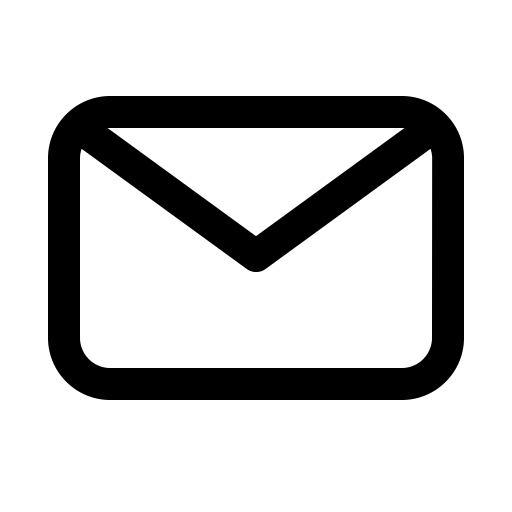
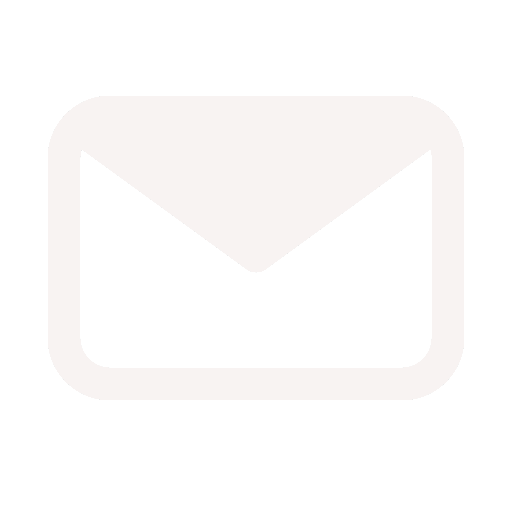
Updated styles
Changed header styles, updated icons to match with it, and column styles to also match with new header

Changed region(s): [[0.0938, 0.1875, 0.9062, 0.7812]]

diff --git a/about/index.html b/about/index.html
@@ -13,15 +13,25 @@
             <hr>
             <p class="index-text">
                 <ol>
-                    <li class="ordered"><a class="light" href="#Journey">My Journey</a></li>
+                    <li class="ordered"><a class="about" href="#Journey">My Journey</a></li>
                         <ol>
-                            <li class="ordered"><a class="light" href="#Background">Background</a></li>
-                            <li class="ordered"><a class="light" href="#Motivation">Motivation</a></li>
+                            <li class="ordered"><a class="about" href="#Background">Background</a></li>
+                            <li class="ordered"><a class="about" href="#Motivation">Motivation</a></li>
                         </ol>
-                    <li class="ordered"><a class="light" href="#Certifications">Certifications</a></li>
-                    <li class="ordered"><a class="light" href="#Projects">Projects</a></li>
+                    <li class="ordered"><a class="about" href="#Certifications">Certifications</a></li>
+                    <li class="ordered"><a class="about" href="#Projects">Projects</a></li>
                 </ol>
             </p>
+        </div>
+        <div class="footer">
+            <p class="footer-text">
+                <a class="hover-underline-animation" href="https://chara.cloud">CHARA.CLOUD</a>
+                <a class="hover-underline-animation" href="https://chara.cloud/about">ABOUT</a>
+            </p>
+            <div class="footer-icons">
+                <a href="https://github.com/charagender"><img src="../images/github.png" class="icons-style"></a>
+                <a href="mailto:charagender@proton.me"><img src="../images/email.png" class="icons-style"></a>
+            </div>
         </div>
         <div class="header-about">
             About
@@ -36,16 +46,16 @@
                     <tr>
                         <td>
                         <p>
-                        I studied at the Instituto Alonso de Ercilla school for all of my life
-                        until I graduated from it in 2022, and then entered the Computing and
-                        Informatics Execution Engineering career at the University of Santiago
-                        Chile. While I was in school, I served as an unofficial IT Support
-                        for both friends and teachers, because I knew a lot about computers, 
-                        and because of my skill with them. These are also the reasons I decided
-                        to enter the career that I did where I did. I am very interested in
-                        computers and the area of IT, and I also want to get out of Chile as soon
-                        as possible, so I chose the career and university with the shortest 
-                        length and most straight-forward curriculum.
+                            I studied at the Instituto Alonso de Ercilla school for all of my life
+                            until I graduated from it in 2022, and then entered the Computing and
+                            Informatics Execution Engineering career at the University of Santiago
+                            Chile. While I was in school, I served as an unofficial IT Support
+                            for both friends and teachers, because I knew a lot about computers, 
+                            and because of my skill with them. These are also the reasons I decided
+                            to enter the career that I did where I did. I am very interested in
+                            computers and the area of IT, and I also want to get out of Chile as soon
+                            as possible, so I chose the career and university with the shortest 
+                            length and most straight-forward curriculum.
                         </p>
                         </td>
                         <td>
@@ -143,7 +153,7 @@
                     <h2 class="project-text">UNNAMED <br>GAME</h2>
                 </div>
                 <div class="column-5 project-1">
-                    <h2 class="project-text">RUST <br>PROGRAMS</h2>
+                    <h2 class="project-text">ZIG <br>PROGRAMS</h2>
                 </div>
                 <div class="column-5 project-placeholder">
                     <h2 class="project-placeholder-text">PLACEHOLDER <br>BLOCK</h2>
@@ -154,19 +164,6 @@
 
                 <div class="section-break"></div>
 
-
-                <div>a</div>
-
-                <div class="footer">
-                    <p class="footer-text">
-                        <a class="menu" href="https://chara.cloud">home</a>
-                        <a class="menu" href="https://chara.cloud/about">about</a>
-                    </p>
-                    <div class="footer-icons">
-                        <a href="https://github.com/charagender"><img src="../images/github.png" class="icons-style"></a>
-                        <a href="mailto:charagender@proton.me"><img src="../images/email.png" class="icons-style"></a>
-                    </div>
-                </div>
             </div>
         </div>
     </body>

diff --git a/css/styles.css b/css/styles.css
@@ -1,3 +1,7 @@
+@import url('https://fonts.googleapis.com/css2?family=Staatliches&display=swap');
+@import url('https://fonts.googleapis.com/css2?family=Poppins&display=swap');
+@import url('https://fonts.googleapis.com/css2?family=Red+Hat+Mono:wght@500&family=Red+Hat+Text:wght@600&display=swap');
+
 .body-home {
     margin: 0;
     font-family: Arial, Helvetica, sans-serif;
@@ -10,16 +14,40 @@
     font-family: Arial, Helvetica, sans-serif;
 }
 
-a.dark {
-    color: #112d4e;
+a {
+    text-decoration: none;
 }
 
-a.light {
-    color: #4589D6;
+a.about {
+    color: #736dea;
 }
- 
-a.menu:hover {
-    background-color: #DB162F;
+
+a.about:visited {
+    color: #6d88ea;
+}
+
+.hover-underline-animation {
+  display: inline-block;
+  position: relative;
+  color: #F8F3F2;
+}
+
+.hover-underline-animation::after {
+  content: '';
+  position: absolute;
+  width: 100%;
+  transform: scaleX(0);
+  height: 2px;
+  bottom: 0;
+  left: 0;
+  background-color: #F8F3F2;
+  transform-origin: bottom right;
+  transition: transform 0.25s ease-out;
+}
+
+.hover-underline-animation:hover::after {
+  transform: scaleX(1);
+  transform-origin: bottom left;
 }
 
 ol {
@@ -34,8 +62,10 @@ li.ordered:before {
 }
 
 .header-home {
-    margin: 30px;
-    margin-top: 0;
+    margin-top: 20px;
+    margin-bottom: 20px;
+    margin-left: 200px;
+    margin-right: 200px;
     border-radius: 10px;
     background: #303030;
     text-align: center;
@@ -45,14 +75,29 @@ li.ordered:before {
 }
 
 .header-about {
+    font-family: 'Staatliches';
     margin: 0;
     background: #292929;
     text-align: left;
     font-size: 40px;
-    padding-top: 20px;
+    padding-top: 100px;
     padding-left: 400px;
     padding-bottom: 30px;
     color: #f8f3f2;
+}
+
+h1 {
+    font-family: 'Red Hat Text';
+}
+
+h2 {
+    font-family: 'Red Hat Text';
+}
+
+p {
+    font-family: 'Poppins';
+    text-align: justify;
+    font-size: 16px;
 }
 
 .index-about {
@@ -79,7 +124,7 @@ li.ordered:before {
     background: url(../images/ruby\ 0.jpg);
     background-size: cover; 
     background-position: center;
-    scale: 80%;
+    scale: 60%;
 }
 
 .image-small-right {
@@ -112,7 +157,9 @@ li.ordered:before {
 .column-1 {
     float: left;
     position: relative;
-    bottom: 50px;
+    bottom: 150px;
+    top: -100px;
+    left: 108px;
     width: 35%;
     padding: 40px;
     height: 849px;
@@ -127,12 +174,11 @@ li.ordered:before {
     float: left;
     position: relative;
     top: 50px;
-    width: 55%;
+    width: 48%;
+    right: 30px;
     padding: 40px;
-    padding-left:70px;
-    padding-right: 70px;
+    margin-right: 80px;
     height: auto;
-    margin:30px;
     background-color: #A69FAB;
     line-height:2;
 }
@@ -143,6 +189,7 @@ li.ordered:before {
     top: 90px;
     left: 390px;
     overflow-y: scroll;
+    margin-right: 90px;
     height: calc(100vh - 90px)
 }
 
@@ -152,7 +199,7 @@ li.ordered:before {
     padding: 20px;
     padding-left: 30px;
     height: 100%;
-    width: 80%;
+    width: 90%;
     color: #DDF8DF;
     overflow-y: scroll;
     height: calc(100vh - 90px)
@@ -181,22 +228,23 @@ li.ordered:before {
 }
 
 .footer {
-    position: fixed;
+    position: static;
     top: 0px;
     width: 100%;
-    height: 120px;
-    background-image: linear-gradient(to bottom, #313131FF, #31313100 60%);
+    height: 80px;
+    background-color: #151515;
 }
 
 .footer-text {
+    font-family: 'Staatliches';
     font-size: 25px;
-    padding-left: 40px;
+    padding-left: 200px;
     float: left;
     word-spacing: 20px;
 }
 
 .footer-icons {
-    padding-right: 40px;
+    padding-right: 200px;
     margin-top: 20px;
     float: right;
 }
@@ -205,13 +253,15 @@ li.ordered:before {
     height: 40px;
     margin-left: 20px;
     margin-top: 5px;
-    border: 0px solid #DB162F;
-    border-radius: 50%;
+}
+
+.icons-style {
+    transition: all 0.3s ease-in-out;
 }
 
 .icons-style:hover {
-    background-color:#DB162F;
-} 
+    transform: scale(1.1);
+}
 
 .project-text {
     text-align: center;

diff --git a/index.html b/index.html
@@ -8,9 +8,20 @@
     </head>
 
     <body class="body-home">
+        <div class="footer">
+            <p class="footer-text">
+                <a class="hover-underline-animation" href="https://chara.cloud">CHARA.CLOUD</a>
+                <a class="hover-underline-animation" href="https://chara.cloud/about">ABOUT</a>
+            </p>
+            <div class="footer-icons">
+                <a href="https://github.com/charagender"><img src="images/github.png" class="icons-style"></a>
+                <a href="mailto:charagender@proton.me"><img src="images/email.png" class="icons-style"></a>
+            </div>
+        </div>
+
         <div class="header-home">
             <img class="profile-small" src="images/chara picrew.png">
-            <h1>Chàra</h1>
+            <h1>Chàra Rose</h1>
         </div>
 
 
@@ -18,8 +29,9 @@
         </div></a>
         
         <div class="column-2">
-            <h1>About me</h1>
-            <p>Hello! I am an 18 year old Chilean student graduated from the Instituto Alonso de Ercilla school
+            <h1 class="subsection">About me</h1>
+            <p>
+                Hello! I am an 18 year old Chilean student graduated from the Instituto Alonso de Ercilla school
                 who's now in the University of Santiago of Chile studying Computer and Informatics Execution Engineering.
                 I am primarily interested in the data center space, with me having computers that I use as servers
                 in my home, but I also like programming and have set multiple goals for myself so I may improve 
@@ -28,21 +40,14 @@
             <p>
                 This is my website where I will be putting my technical achievements as well as relevant experiences
                 and information, so it will be updated every once in a while, as I also use it to learn more about
-                web programming.</p>
-            <p>But if you wish to learn more about me or my projects and achievements, you can head to my about page!
+                web programming.
+            </p>
+            <p>
+                But if you wish to learn more about me or my projects and achievements, you can head to my about page!
             </p>
         </div>
 
         
-        <div class="footer">
-            <p class="footer-text">
-                <a class="menu" href="https://chara.cloud">home</a>
-                <a class="menu" href="https://chara.cloud/about">about</a>
-            </p>
-            <div class="footer-icons">
-                <a href="https://github.com/charagender"><img src="images/github.png" class="icons-style"></a>
-                <a href="mailto:charagender@proton.me"><img src="images/email.png" class="icons-style"></a>
-            </div>
-        </div>
+        
     </body>
 </html>
